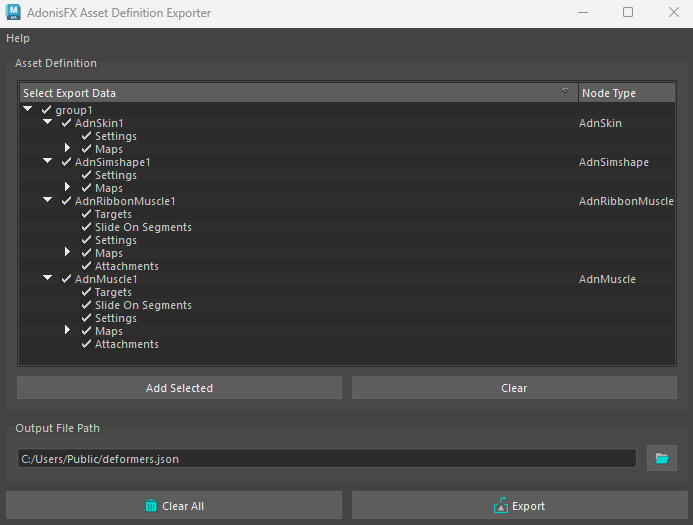
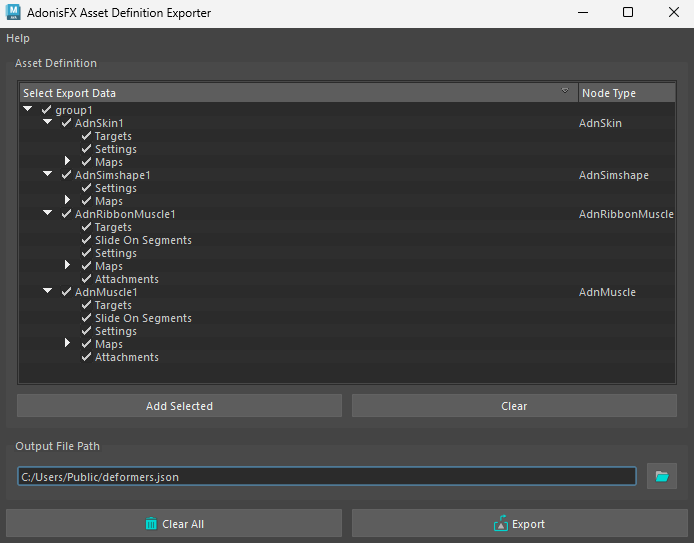
Rephrased "target mesh or meshes" as "one or more target meshes". Updated screenshots: export_tool_full.png and simshape_menu.png. Removed redundancy in targets section (skin page).

diff --git a/docs/maya/simple_setup.md b/docs/maya/simple_setup.md
@@ -6,7 +6,7 @@ This page is dedicated to explain, step by step, a simple process of creating an
 
 To create a basic scenario using the AdnSkin deformer, start with a scene with the following elements:
 
-  - A target mesh or meshes with deformation.
+  - One or more target meshes with deformation.
   - A skin mesh without animation or deformation.
 
 The AdnSkin deformer will get applied to the last mesh which will become the simulated mesh.
@@ -18,7 +18,7 @@ The AdnSkin deformer will get applied to the last mesh which will become the sim
 
 ### Create Deformer
 
-To create the AdnSkin deformer select the target mesh or meshes and then the skin mesh. Then press the ![AdnSkins](images/adn_skin.png){style="width:4%"} shelf button or go to AdonisFX Menu > *Skin*.
+To create the AdnSkin deformer select one or more target meshes and then the skin mesh. Then press the ![AdnSkins](images/adn_skin.png){style="width:4%"} shelf button or go to AdonisFX Menu > *Skin*.
 
 To create the AdnSkin deformer with some initial customisation, double-click the shelf button or press the option box in the menu item. This will display a pop-up window that will allow to do some initial customisation, as well as creating the deformer with a custom name. Once all data has been provided press the *Create* button and the deformer will get created.
 

diff --git a/docs/faq.md b/docs/faq.md
@@ -14,7 +14,7 @@ The *Volume Ratio* attribute of an AdnMuscle allows to simulate volume gain (vol
 
 ## How can I simulate skin?
 
-Skin can be simulated using the [AdnSkin](maya/skin) deformer. This deformer requires a target mesh or meshes to drive the skin simulation (i.e. the fascia) and a mesh to apply the deformer to (skin mesh). A simple setup is explained [here](maya/simple_setup#adnskin).
+Skin can be simulated using the [AdnSkin](maya/skin) deformer. This deformer requires one or more target meshes to drive the skin simulation (i.e. the fascia) and a mesh to apply the deformer to (skin mesh). A simple setup is explained [here](maya/simple_setup#adnskin).
 
 ## How can I simulate fascia?
 

diff --git a/docs/maya/skin.md b/docs/maya/skin.md
@@ -174,7 +174,7 @@ To enable the debugger the *Debug* checkbox must be marked. To select the specif
 
 ### Targets
 
-Once the AdnSkin deformer is created by providing at least one target geometry, it is possible to add and remove new targets to the system.
+Once the AdnSkin deformer is created, it is possible to add and remove new targets to the system.
 
 - **Add targets**:
     1. Select one or more mesh nodes to be assigned as targets to the AdnSkin.
